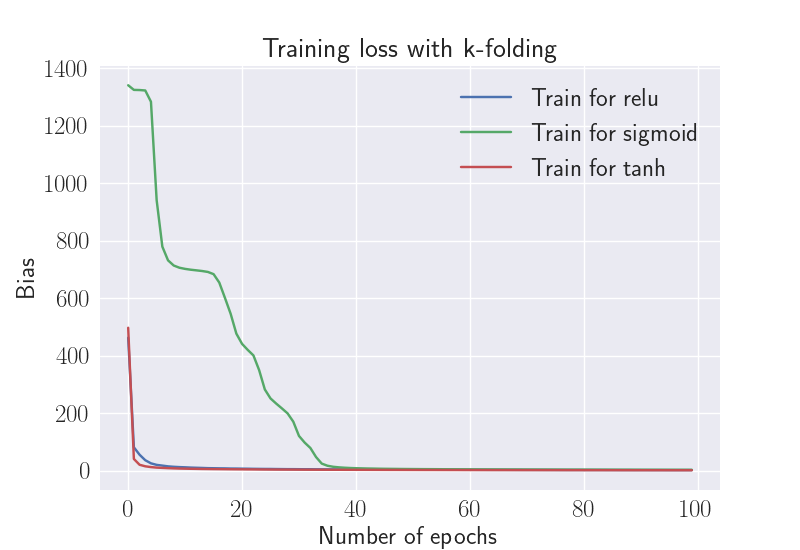
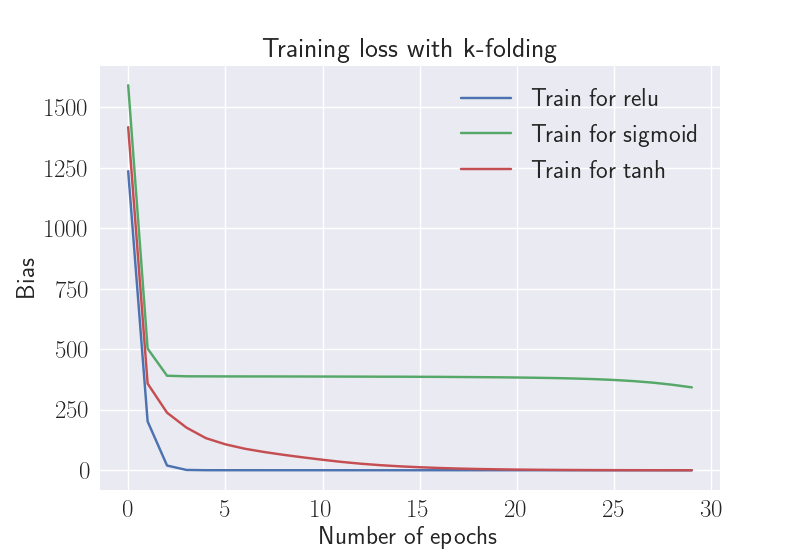
R2 score implemented

diff --git a/Project3/Code/NN_methods.py b/Project3/Code/NN_methods.py
@@ -4,7 +4,12 @@ from tensorflow.keras.layers import Dense           # This allows defining the c
 from tensorflow.keras import optimizers             # This allows using whichever optimiser we want (sgd,adam,RMSprop)
 from tensorflow.keras import regularizers           # This allows using whichever regularizer we want (l1,l2,l1_l2)
 from sklearn.model_selection import KFold
-from common import R2
+import tensorflow.keras.backend as K
+
+def r2_score(y_true, y_pred):
+    SS_res =  K.sum(K.square(y_true - y_pred))
+    SS_tot = K.sum(K.square(y_true - K.mean(y_true)))
+    return ( 1 - SS_res/(SS_tot + K.epsilon()) )
 
 class NeuralNetwork:
     def __init__(self, X_train, X_test, y_train, y_test):
@@ -35,7 +40,6 @@ class NeuralNetwork:
 
         sgd = optimizers.SGD(learning_rate=eta, momentum=0.9)
         model.compile(optimizer=sgd, loss='mse', metrics = ['accuracy'])
-        #model2.compile(optimizer=sgd, loss='')
 
         # Fit data to model
         fit_ = model.fit(
@@ -58,28 +62,23 @@ class NeuralNetwork:
     def kfold(self, inputsize, N_layers, N_neurons, N_epochs, N_folds, batch_size, eta, lmbd, act_func):
         inputs = np.concatenate((self.X_train, self.X_test), axis=0)
         targets = np.concatenate((self.y_train, self.y_test), axis=0)
-        #inputs_2 = np.concatenate((self.X_train, self.X_test), axis=0)
-        #targets_2 = np.concatenate((self.y_train, self.y_test), axis=0)
 
         kfold = KFold(n_splits=N_folds, shuffle=True)
+
         pred = []
-        #pred_2 = []
         target_data = []
-        #target_data_2 = []
+
         loss = []
         val_loss = []
         accuracy = []
         val_accuracy = []
-
-        loss_2 = []
-        val_loss_2 = []
+        R2_score = []
 
         fold_no = 1
         for train, test in kfold.split(inputs, targets):
             print('------------------------------------------------------------------------')
             print(f'Training for fold {fold_no} ...')
             model = Sequential()
-            model_2 = Sequential()
             #Input Layer
             model.add(
                 Dense(N_neurons,
@@ -88,59 +87,29 @@ class NeuralNetwork:
                     input_dim=inputsize
                 )
             )
-            #model_2.add(
-            #    Dense(N_neurons,
-            #        activation='relu',
-            #        kernel_regularizer=regularizers.l2(lmbd),
-            #        input_dim=inputsize
-            #    )
-            #)
             #Hidden layers
-            for _ in range(N_layers - 1):       # add hidden layers to the network
+            for _ in range(N_layers - 1):    # add hidden layers to the network
                 model.add(Dense(N_neurons, activation=act_func, kernel_regularizer=regularizers.l2(lmbd)))
-                #model_2.add(Dense(N_neurons, activation=act_func, kernel_regularizer=regularizers.l2(lmbd)))
             #Output layer
             model.add(Dense(3, activation=None))
-            #model_2.add(Dense(3, activation=None))
-
             sgd = optimizers.SGD(learning_rate=eta, momentum=0.9)
-            model.compile(optimizer=sgd, loss='mse', metrics = ['accuracy'])
-
-            #from keras import backend as K
-
-            #def coeff_determination(y_true, y_pred):
-            #    SS_res =  K.sum(K.square( y_true-y_pred ))
-            #    SS_tot = K.sum(K.square( y_true - K.mean(y_true) ) )
-            #    return ( 1 - SS_res/(SS_tot + K.epsilon()) )
-
-            #model_2.compile(optimizer='adam', loss='mean_squared_error', metrics=[coeff_determination])
-
+            model.compile(optimizer=sgd, loss='mse', metrics = ['accuracy', r2_score])
             # Fit data to model
             fit_ = model.fit(
                     inputs[train], targets[train], batch_size, N_epochs,
                     verbose=0, validation_data=(inputs[test], targets[test])
                     )
-            #fit_2 = model_2.fit(
-                    #inputs[train], targets[train], batch_size, N_epochs,
-                    #verbose=0, validation_data=(inputs_2[test], targets_2[test])
-                    #)
 
             pred.append(model.predict(inputs[test]))
             target_data.append(targets[test])
-            #print(pred)
 
-            #pred_2.append(model_2.predict(inputs_2[test]))
-            #target_data_2.append(targets_2[test])
-
-            loss.append(fit_.history['loss']) # train loss
-            val_loss.append(fit_.history['val_loss']) # test loss
-            accuracy.append(fit_.history['accuracy']) # train accuracy
-            val_accuracy.append(fit_.history['val_accuracy']) # test accuracy
-
-            #loss_2.append(fit_2.history['loss']) # train loss
-            #val_loss_2.append(fit_2.history['val_loss']) # test loss
+            loss.append(fit_.history['loss'])
+            val_loss.append(fit_.history['val_loss'])
+            accuracy.append(fit_.history['accuracy'])
+            val_accuracy.append(fit_.history['val_accuracy'])
+            R2_score.append(fit_.history['r2_score'])
 
             # Increase fold number
             fold_no = fold_no + 1
-        print('Training completed')
-        return pred, target_data, np.array(loss), np.array(val_loss), np.array(accuracy), np.array(val_accuracy), np.array(loss_2), np.array(val_loss_2)
+        print(f'Training completed for {act_func}')
+        return pred, target_data, np.array(loss), np.array(val_loss), np.array(accuracy), np.array(val_accuracy), np.array(R2_score)

diff --git a/Project3/Code/run_NN.py b/Project3/Code/run_NN.py
@@ -1,33 +1,28 @@
 import numpy as np
-import LFPy
-from lfpykit.eegmegcalc import NYHeadModel
-from lfpykit import CellGeometry, CurrentDipoleMoment
 from sklearn.model_selection import train_test_split
-from sklearn.decomposition import PCA
 from sklearn.preprocessing import StandardScaler
 from sklearn.decomposition import PCA
-from common import R2
 
 from NN_methods import NeuralNetwork
-from plot import plot_bias_accuracy, plot_bias_accuracy_simple, plot_R2_score
+from plot import plot_bias_accuracy, plot_bias_accuracy_simple, plot_R2
 from common import prepare_data
 
 # Prepare some data
-N_samples = 10000 # 10000
-eeg, pos_list = prepare_data(N_samples)
-#eeg = np.load(f'data/eeg_100.npy')
-#pos_list = np.load(f'data/pos_list_100.npy')
+# N_samples = 10000 # 10000
+# eeg, pos_list = prepare_data(N_samples)
+eeg = np.load(f'data/eeg_100.npy')
+pos_list = np.load(f'data/pos_list_100.npy')
 pos_list = pos_list.T
 
 # Define initial parameters
 inputsize = eeg.shape[1]
 N_layers = 5
 N_neurons = 100
-N_epochs = 100 # 30
+N_epochs = 30
 batch_size = 30
 eta = 0.0001
 lmbd = 1e-6
-N_folds = 10 #10
+N_folds = 10
 
 # Scale the data and append noice
 scaler = StandardScaler()
@@ -64,14 +59,14 @@ def run_simple_DNN(act_funcs):
 
 # Run DNN with k-folding with different activation functions
 def run_kfold_DNN(act_funcs):
-    # act_funcs = ['relu', 'sigmoid', 'tanh']
     loss_array = np.zeros((len(act_funcs), N_epochs))
     val_loss_array = np.zeros_like(loss_array)
     accuracy_array = np.zeros_like(loss_array)
     val_accuracy_array = np.zeros_like(loss_array)
+    R2_score_array = np.zeros_like(loss_array)
 
     for i in range(len(act_funcs)):
-        pred, target_data, loss, val_loss, accuracy, val_accuracy, loss_2, val_loss_2 = model.kfold(
+        pred, target_data, loss, val_loss, accuracy, val_accuracy, R2_score = model.kfold(
                                                         inputsize, N_layers, N_neurons,
                                                         N_epochs, N_folds, batch_size,
                                                         eta, lmbd, act_funcs[i]
@@ -80,16 +75,16 @@ def run_kfold_DNN(act_funcs):
         val_loss_array[i, :] = np.mean(val_loss, axis=0)
         accuracy_array[i, :] = np.mean(accuracy, axis=0)
         val_accuracy_array[i, :] = np.mean(val_accuracy, axis=0)
+        R2_score_array[i, :] = np.mean(val_accuracy, axis=0)
 
-
-        print(f"Predictions with k-folding using {act_funcs[i]}:")
-        print("Prediction:")
-        print(pred[-1][0:5][:])
-        print("Target:")
-        print(target_data[-1][0:5][:])
+        # print(f"Predictions with k-folding using {act_funcs[i]}:")
+        # print("Prediction:")
+        # print(pred[-1][0:5][:])
+        # print("Target:")
+        # print(target_data[-1][0:5][:])
 
     plot_bias_accuracy(loss_array, val_loss_array, accuracy_array, val_accuracy_array, N_epochs, act_funcs)
-    #plot_R2_score(loss_2, val_loss_2, N_epochs, act_funcs)
+    plot_R2(R2_score_array, N_epochs, act_funcs)
 
 # Run PCA with k-folding
 def run_kfold_PCA(act_func):
@@ -115,6 +110,6 @@ def run_kfold_PCA(act_func):
     print("Target:")
     print(target_data[-1][0:5][:])
 
-run_simple_DNN(['relu', 'sigmoid', 'tanh'])
-run_kfold_DNN(['relu', 'sigmoid', 'tanh']) #, 'sigmoid', 'tanh'])
-run_kfold_PCA('relu')
+# run_simple_DNN(['relu', 'sigmoid', 'tanh'])
+run_kfold_DNN(['relu', 'sigmoid', 'tanh'])
+# run_kfold_PCA('relu')

diff --git a/Project3/Code/plot.py b/Project3/Code/plot.py
@@ -5,19 +5,17 @@ plt.style.use('seaborn')
 plt.rc('text', usetex=True)
 plt.rc('text.latex', preamble=r'\usepackage{amsmath}')
 
-def plot_R2_score(loss_2, val_loss_2, N_epochs, act_funcs):
-
+def plot_R2(R2, N_epochs, act_funcs):
     fig1 = plt.figure()
     ax1 = fig1.add_subplot()
-    ax1.set_title('R2 score with k-folding', fontsize=20)
+    ax1.set_title('R2 score for different activation functions', fontsize=20)
     ax1.set_xlabel('Number of epochs', fontsize=18)
-    ax1.set_ylabel('R2', fontsize=18)
+    ax1.set_ylabel('Score', fontsize=18)
     ax1.tick_params(axis='both', which='major', labelsize=18)
-    ax1.legend(fontsize=18)
 
     for i in range(len(act_funcs)):
-        # plot loss during training
-        ax1.plot(loss_2[i], label=f'Train for {act_funcs[i]}')
+        ax1.plot(R2[i], label=f'{act_funcs[i]}')
+        ax1.legend(fontsize=18)
 
     fig1.savefig(f'../Plots/R2')
 

diff --git a/Project3/Code/common.py b/Project3/Code/common.py
@@ -26,7 +26,3 @@ def prepare_data(num_samples):
         eeg_i = M @ p #Genererer EEG-signalet tilhørende et dipolmoment i posisjon pos_list[:,i]
         eeg[i, :] = eeg_i.T
     return eeg, pos_list
-
-def R2(y_data, y_model):
-    """Calculate R2 score"""
-    return 1 - np.sum((y_data - y_model) ** 2) / np.sum((y_data - np.mean(y_data)) ** 2)
